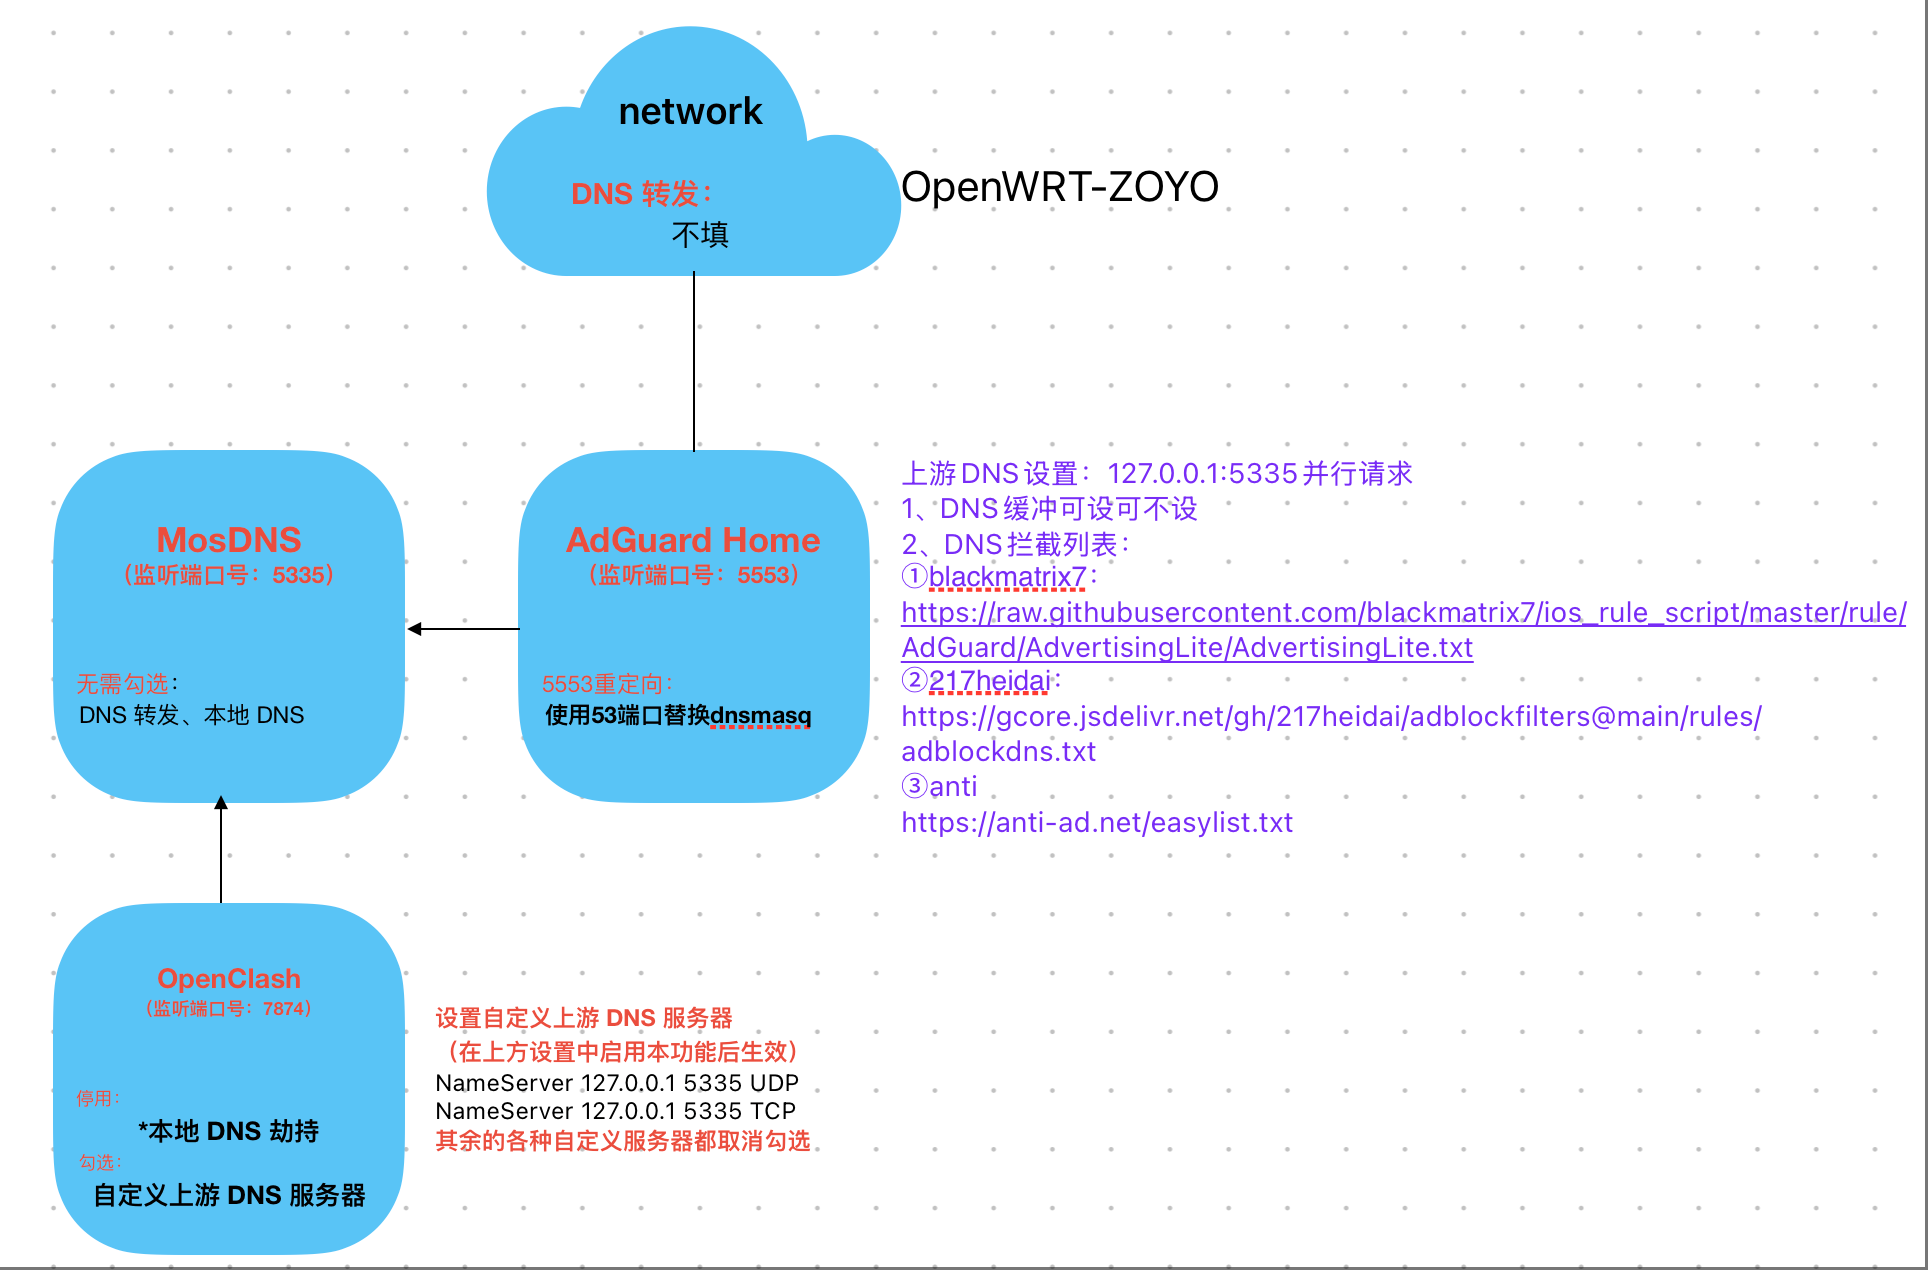
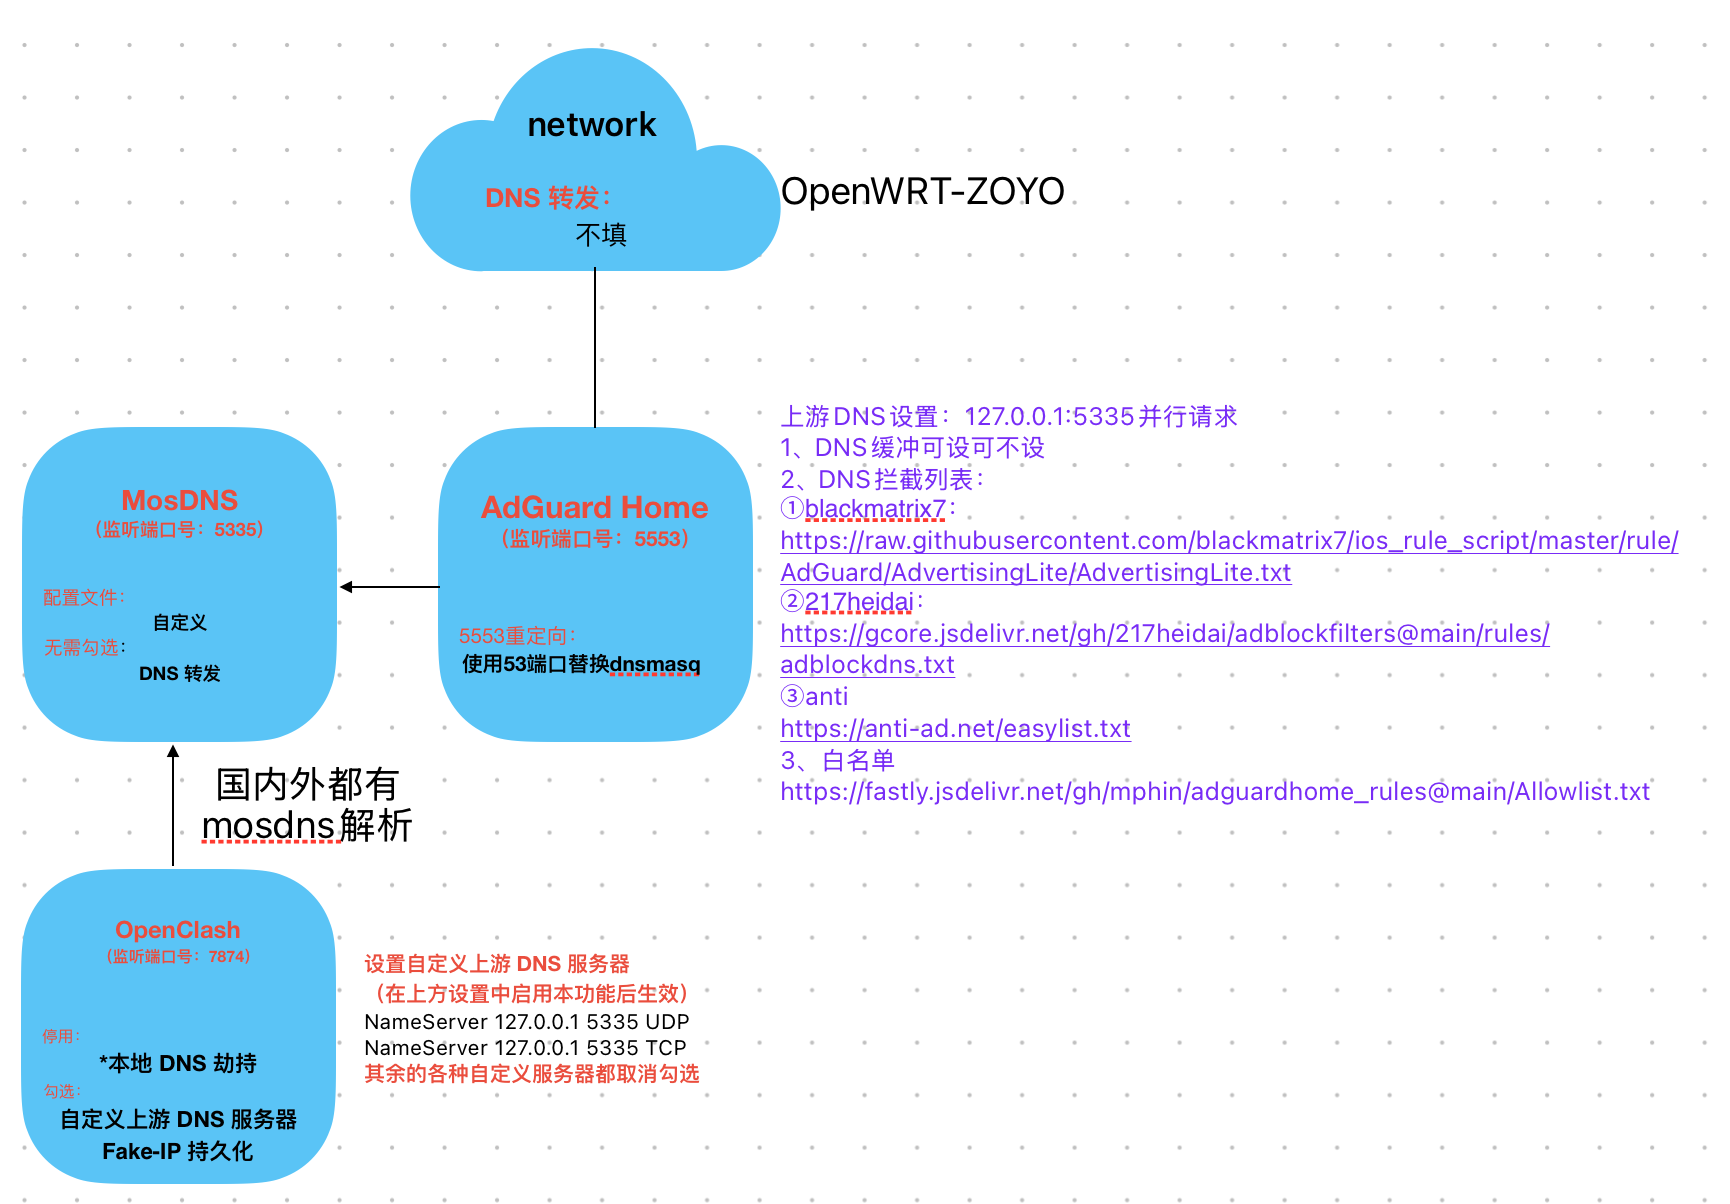
update

diff --git a/README.md b/README.md
@@ -1,3 +1,21 @@
+# 感谢 ✿✿ヽ(°▽°)ノ✿
+https://github.com/xiaomqw/MosDNS-Config 作者！！！
+----
+
+根据 [moreoronce/MosDNS-Config](https://github.com/moreoronce/MosDNS-Config)  进行二次修改，因为[GeoData 导出]导出不了对应的geo文件只好使用手动导入，并更换了对应的目录,不然启动会覆盖原有的geo文件
+
+参考：
+https://deeprouter.org/article/OpenClash-Mosdns%E5%A6%82%E4%BD%95%E9%98%B2%E6%AD%A2DNS%E6%B3%84%E9%9C%B2%EF%BC%9F
+
+本配置需要使用的服务端口如下，有变动的自行修改：
+|服务名|协议|端口号|备注|
+|---|---|---|---|
+|Openclash|DNS|7874|我没有用mosdns下发给clash|
+|dnsmasq|DNS|5553|服务端口[被Adguardhome替换了|
+|MosDNS|API|9091||
+|MosDNS|DNS|5335||
+|Adguardhome|DNS|53|5553重定向:使用53端口替换dnsmasq，所以dnsmasq端口就是5553了|
+
 # 我的模式流程图：
 
 ![我的模式流程图](./photo.png)
@@ -31,8 +49,6 @@
 
 ![image](https://github.com/user-attachments/assets/8b56d92c-c5ec-48dc-8b41-650324f46fad)
 
-
-根据 [moreoronce/MosDNS-Config](https://github.com/moreoronce/MosDNS-Config)  进行二次修改，因为[GeoData 导出]导出不了对应的geo文件只好使用手动导入，并更换了对应的目录,不然启动会覆盖原有的geo文件
 
 教程及DNS处理队列详解：[自用MosDNS规则分享](https://deeprouter.org/article/mosdns-config-with-no-leak)
 
